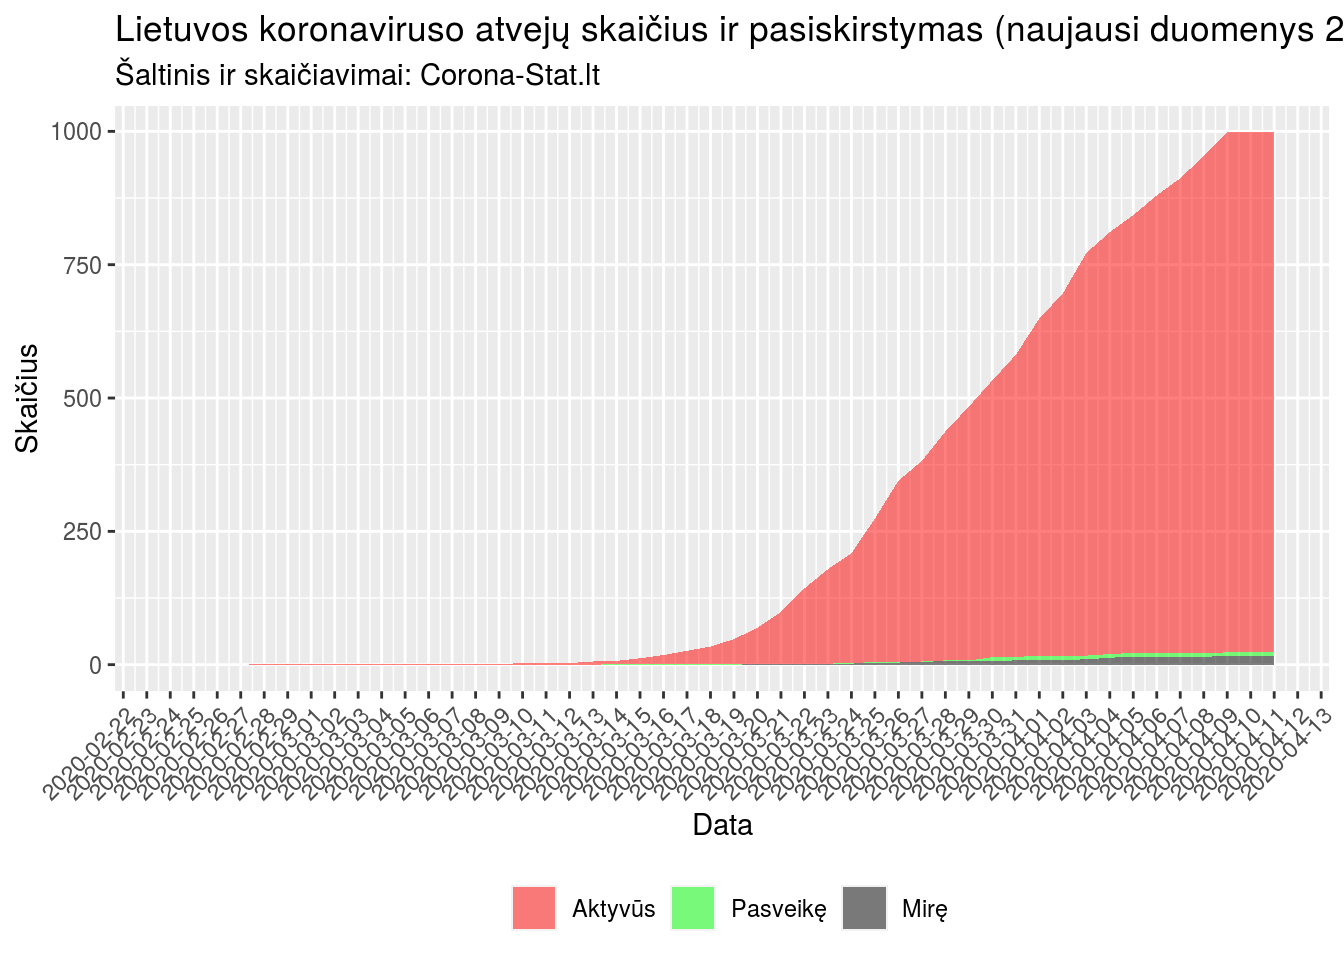
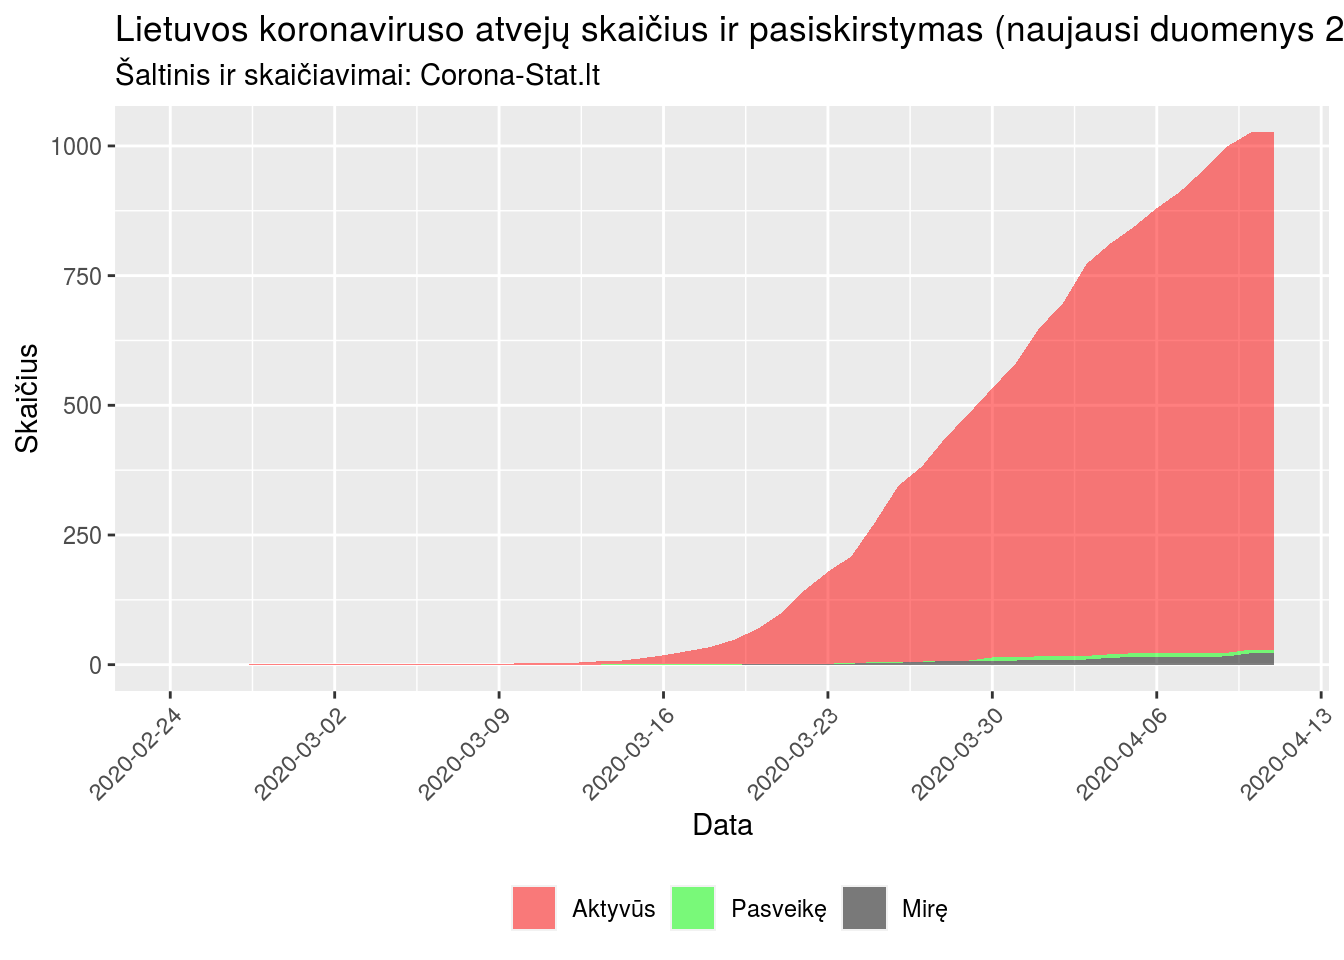
update

diff --git a/public/ltstat/index.html b/public/ltstat/index.html
@@ -28,15 +28,15 @@
 
 
 <link rel="canonical" href="https://corona-stat.lt/ltstat/"><meta property="og:title" content="Lietuvos statistika" />
-<meta property="og:description" content="Naujausiais duomenimis (2020-04-11 10:38) Lietuvoje šiuo metu yra:
- iš viso registruotų atvejų - 998 iš jų pasveiko - 7 iš jų mirė - 17 likęs aktyvių atvejų skaičius - 974  Bendras atvejų skaičius  Naujų atvejų skaičius  Ištyrimai Lietuvoje testuojamų asmenų skaičius nėra didelis (palyginus su Latvija ar Estija) dėl ypatingai mažo turimų reagentų skaičiaus. Todėl 2020-03-21/22 dienomis netgi buvo apribotas mėginių ėmimas Kauno ir Klaipėdos mobiliame punkte." />
+<meta property="og:description" content="Naujausiais duomenimis (2020-04-11 10:47) Lietuvoje šiuo metu yra:
+ iš viso registruotų atvejų - 1026 iš jų pasveiko - 7 iš jų mirė - 22 likęs aktyvių atvejų skaičius - 997  Bendras atvejų skaičius  Naujų atvejų skaičius  Ištyrimai Lietuvoje testuojamų asmenų skaičius nėra didelis (palyginus su Latvija ar Estija) dėl ypatingai mažo turimų reagentų skaičiaus. Todėl 2020-03-21/22 dienomis netgi buvo apribotas mėginių ėmimas Kauno ir Klaipėdos mobiliame punkte." />
 <meta property="og:type" content="article" />
 <meta property="og:url" content="https://corona-stat.lt/ltstat/" />
 <meta property="article:published_time" content="2015-07-23T21:13:14-05:00" />
 <meta property="article:modified_time" content="2015-07-23T21:13:14-05:00" />
 <meta itemprop="name" content="Lietuvos statistika">
-<meta itemprop="description" content="Naujausiais duomenimis (2020-04-11 10:38) Lietuvoje šiuo metu yra:
- iš viso registruotų atvejų - 998 iš jų pasveiko - 7 iš jų mirė - 17 likęs aktyvių atvejų skaičius - 974  Bendras atvejų skaičius  Naujų atvejų skaičius  Ištyrimai Lietuvoje testuojamų asmenų skaičius nėra didelis (palyginus su Latvija ar Estija) dėl ypatingai mažo turimų reagentų skaičiaus. Todėl 2020-03-21/22 dienomis netgi buvo apribotas mėginių ėmimas Kauno ir Klaipėdos mobiliame punkte.">
+<meta itemprop="description" content="Naujausiais duomenimis (2020-04-11 10:47) Lietuvoje šiuo metu yra:
+ iš viso registruotų atvejų - 1026 iš jų pasveiko - 7 iš jų mirė - 22 likęs aktyvių atvejų skaičius - 997  Bendras atvejų skaičius  Naujų atvejų skaičius  Ištyrimai Lietuvoje testuojamų asmenų skaičius nėra didelis (palyginus su Latvija ar Estija) dėl ypatingai mažo turimų reagentų skaičiaus. Todėl 2020-03-21/22 dienomis netgi buvo apribotas mėginių ėmimas Kauno ir Klaipėdos mobiliame punkte.">
 <meta itemprop="datePublished" content="2015-07-23T21:13:14-05:00" />
 <meta itemprop="dateModified" content="2015-07-23T21:13:14-05:00" />
 <meta itemprop="wordCount" content="84">
@@ -45,8 +45,8 @@
 
 <meta itemprop="keywords" content="Lietuva,statisika," /><meta name="twitter:card" content="summary"/>
 <meta name="twitter:title" content="Lietuvos statistika"/>
-<meta name="twitter:description" content="Naujausiais duomenimis (2020-04-11 10:38) Lietuvoje šiuo metu yra:
- iš viso registruotų atvejų - 998 iš jų pasveiko - 7 iš jų mirė - 17 likęs aktyvių atvejų skaičius - 974  Bendras atvejų skaičius  Naujų atvejų skaičius  Ištyrimai Lietuvoje testuojamų asmenų skaičius nėra didelis (palyginus su Latvija ar Estija) dėl ypatingai mažo turimų reagentų skaičiaus. Todėl 2020-03-21/22 dienomis netgi buvo apribotas mėginių ėmimas Kauno ir Klaipėdos mobiliame punkte."/>
+<meta name="twitter:description" content="Naujausiais duomenimis (2020-04-11 10:47) Lietuvoje šiuo metu yra:
+ iš viso registruotų atvejų - 1026 iš jų pasveiko - 7 iš jų mirė - 22 likęs aktyvių atvejų skaičius - 997  Bendras atvejų skaičius  Naujų atvejų skaičius  Ištyrimai Lietuvoje testuojamų asmenų skaičius nėra didelis (palyginus su Latvija ar Estija) dėl ypatingai mažo turimų reagentų skaičiaus. Todėl 2020-03-21/22 dienomis netgi buvo apribotas mėginių ėmimas Kauno ir Klaipėdos mobiliame punkte."/>
 
 </head>
 <body>
@@ -90,12 +90,12 @@
                             
 
 
-<p>Naujausiais duomenimis (2020-04-11 10:38) Lietuvoje šiuo metu yra:</p>
+<p>Naujausiais duomenimis (2020-04-11 10:47) Lietuvoje šiuo metu yra:</p>
 <ul>
-<li>iš viso registruotų atvejų - 998</li>
+<li>iš viso registruotų atvejų - 1026</li>
 <li>iš jų pasveiko - 7</li>
-<li>iš jų mirė - 17</li>
-<li>likęs aktyvių atvejų skaičius - 974</li>
+<li>iš jų mirė - 22</li>
+<li>likęs aktyvių atvejų skaičius - 997</li>
 </ul>
 <div id="bendras-atvejų-skaičius" class="section level2">
 <h2>Bendras atvejų skaičius</h2>

diff --git a/public/categories/lietuva/index.html b/public/categories/lietuva/index.html
@@ -81,8 +81,8 @@
             <h4 class="card-title">Lietuvos statistika</h4>
             <p class="card-text text-muted text-uppercase">July 23, 2015</p>
             <div class="card-text">
-                Naujausiais duomenimis (2020-04-11 10:38) Lietuvoje šiuo metu yra:
- iš viso registruotų atvejų - 998 iš jų pasveiko - 7 iš jų mirė - 17 likęs aktyvių atvejų skaičius - 974  Bendras atvejų skaičius  Naujų atvejų skaičius  Ištyrimai Lietuvoje testuojamų asmenų skaičius nėra didelis (palyginus su Latvija ar Estija) dėl ypatingai mažo turimų reagentų skaičiaus. Todėl 2020-03-21/22 dienomis netgi buvo apribotas mėginių ėmimas Kauno ir Klaipėdos mobiliame punkte.
+                Naujausiais duomenimis (2020-04-11 10:47) Lietuvoje šiuo metu yra:
+ iš viso registruotų atvejų - 1026 iš jų pasveiko - 7 iš jų mirė - 22 likęs aktyvių atvejų skaičius - 997  Bendras atvejų skaičius  Naujų atvejų skaičius  Ištyrimai Lietuvoje testuojamų asmenų skaičius nėra didelis (palyginus su Latvija ar Estija) dėl ypatingai mažo turimų reagentų skaičiaus. Todėl 2020-03-21/22 dienomis netgi buvo apribotas mėginių ėmimas Kauno ir Klaipėdos mobiliame punkte.
             </div>
         </div>
     </a>

diff --git a/public/tags/lietuva/index.html b/public/tags/lietuva/index.html
@@ -81,8 +81,8 @@
             <h4 class="card-title">Lietuvos statistika</h4>
             <p class="card-text text-muted text-uppercase">July 23, 2015</p>
             <div class="card-text">
-                Naujausiais duomenimis (2020-04-11 10:38) Lietuvoje šiuo metu yra:
- iš viso registruotų atvejų - 998 iš jų pasveiko - 7 iš jų mirė - 17 likęs aktyvių atvejų skaičius - 974  Bendras atvejų skaičius  Naujų atvejų skaičius  Ištyrimai Lietuvoje testuojamų asmenų skaičius nėra didelis (palyginus su Latvija ar Estija) dėl ypatingai mažo turimų reagentų skaičiaus. Todėl 2020-03-21/22 dienomis netgi buvo apribotas mėginių ėmimas Kauno ir Klaipėdos mobiliame punkte.
+                Naujausiais duomenimis (2020-04-11 10:47) Lietuvoje šiuo metu yra:
+ iš viso registruotų atvejų - 1026 iš jų pasveiko - 7 iš jų mirė - 22 likęs aktyvių atvejų skaičius - 997  Bendras atvejų skaičius  Naujų atvejų skaičius  Ištyrimai Lietuvoje testuojamų asmenų skaičius nėra didelis (palyginus su Latvija ar Estija) dėl ypatingai mažo turimų reagentų skaičiaus. Todėl 2020-03-21/22 dienomis netgi buvo apribotas mėginių ėmimas Kauno ir Klaipėdos mobiliame punkte.
             </div>
         </div>
     </a>

diff --git a/public/tags/statisika/index.html b/public/tags/statisika/index.html
@@ -81,8 +81,8 @@
             <h4 class="card-title">Lietuvos statistika</h4>
             <p class="card-text text-muted text-uppercase">July 23, 2015</p>
             <div class="card-text">
-                Naujausiais duomenimis (2020-04-11 10:38) Lietuvoje šiuo metu yra:
- iš viso registruotų atvejų - 998 iš jų pasveiko - 7 iš jų mirė - 17 likęs aktyvių atvejų skaičius - 974  Bendras atvejų skaičius  Naujų atvejų skaičius  Ištyrimai Lietuvoje testuojamų asmenų skaičius nėra didelis (palyginus su Latvija ar Estija) dėl ypatingai mažo turimų reagentų skaičiaus. Todėl 2020-03-21/22 dienomis netgi buvo apribotas mėginių ėmimas Kauno ir Klaipėdos mobiliame punkte.
+                Naujausiais duomenimis (2020-04-11 10:47) Lietuvoje šiuo metu yra:
+ iš viso registruotų atvejų - 1026 iš jų pasveiko - 7 iš jų mirė - 22 likęs aktyvių atvejų skaičius - 997  Bendras atvejų skaičius  Naujų atvejų skaičius  Ištyrimai Lietuvoje testuojamų asmenų skaičius nėra didelis (palyginus su Latvija ar Estija) dėl ypatingai mažo turimų reagentų skaičiaus. Todėl 2020-03-21/22 dienomis netgi buvo apribotas mėginių ėmimas Kauno ir Klaipėdos mobiliame punkte.
             </div>
         </div>
     </a>

diff --git a/content/ltstat.html b/content/ltstat.html
@@ -8,12 +8,12 @@ tags: ["Lietuva", "statisika"]
 
 
 
-<p>Naujausiais duomenimis (2020-04-11 10:38) Lietuvoje šiuo metu yra:</p>
+<p>Naujausiais duomenimis (2020-04-11 10:47) Lietuvoje šiuo metu yra:</p>
 <ul>
-<li>iš viso registruotų atvejų - 998</li>
+<li>iš viso registruotų atvejų - 1026</li>
 <li>iš jų pasveiko - 7</li>
-<li>iš jų mirė - 17</li>
-<li>likęs aktyvių atvejų skaičius - 974</li>
+<li>iš jų mirė - 22</li>
+<li>likęs aktyvių atvejų skaičius - 997</li>
 </ul>
 <div id="bendras-atvejų-skaičius" class="section level2">
 <h2>Bendras atvejų skaičius</h2>
